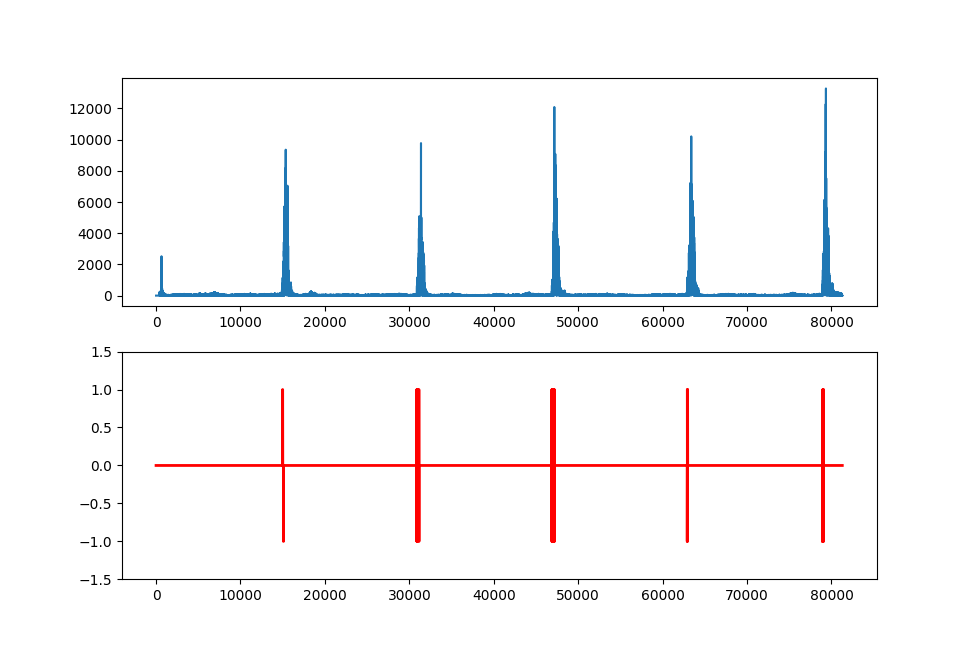
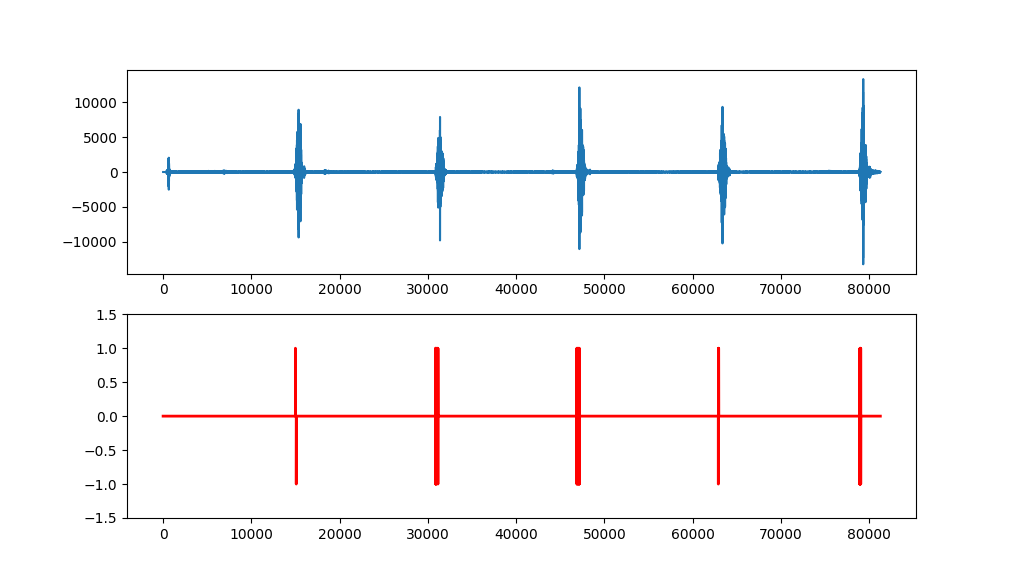
Removed abs()

diff --git a/main.py b/main.py
@@ -81,7 +81,7 @@ y = []
 i = open('quartz1', 'r')
 for line in i:
     (yv, xv) = line.split(' ', 1)
-    y.append(abs(float(yv)))
+    y.append(float(yv))
 
 # Run algo with settings from above
 result = init(y, lag=lag, threshold=threshold, influence=influence)
@@ -89,7 +89,7 @@ result = init(y, lag=lag, threshold=threshold, influence=influence)
 i = open('quartz2', 'r')
 for line in i:
     (yv, xv) = line.split(' ', 1)
-    y.append(abs(float(yv)))
+    y.append(float(yv))
     result = add(result, float(yv), lag, threshold, influence)
 
 # Plot result
